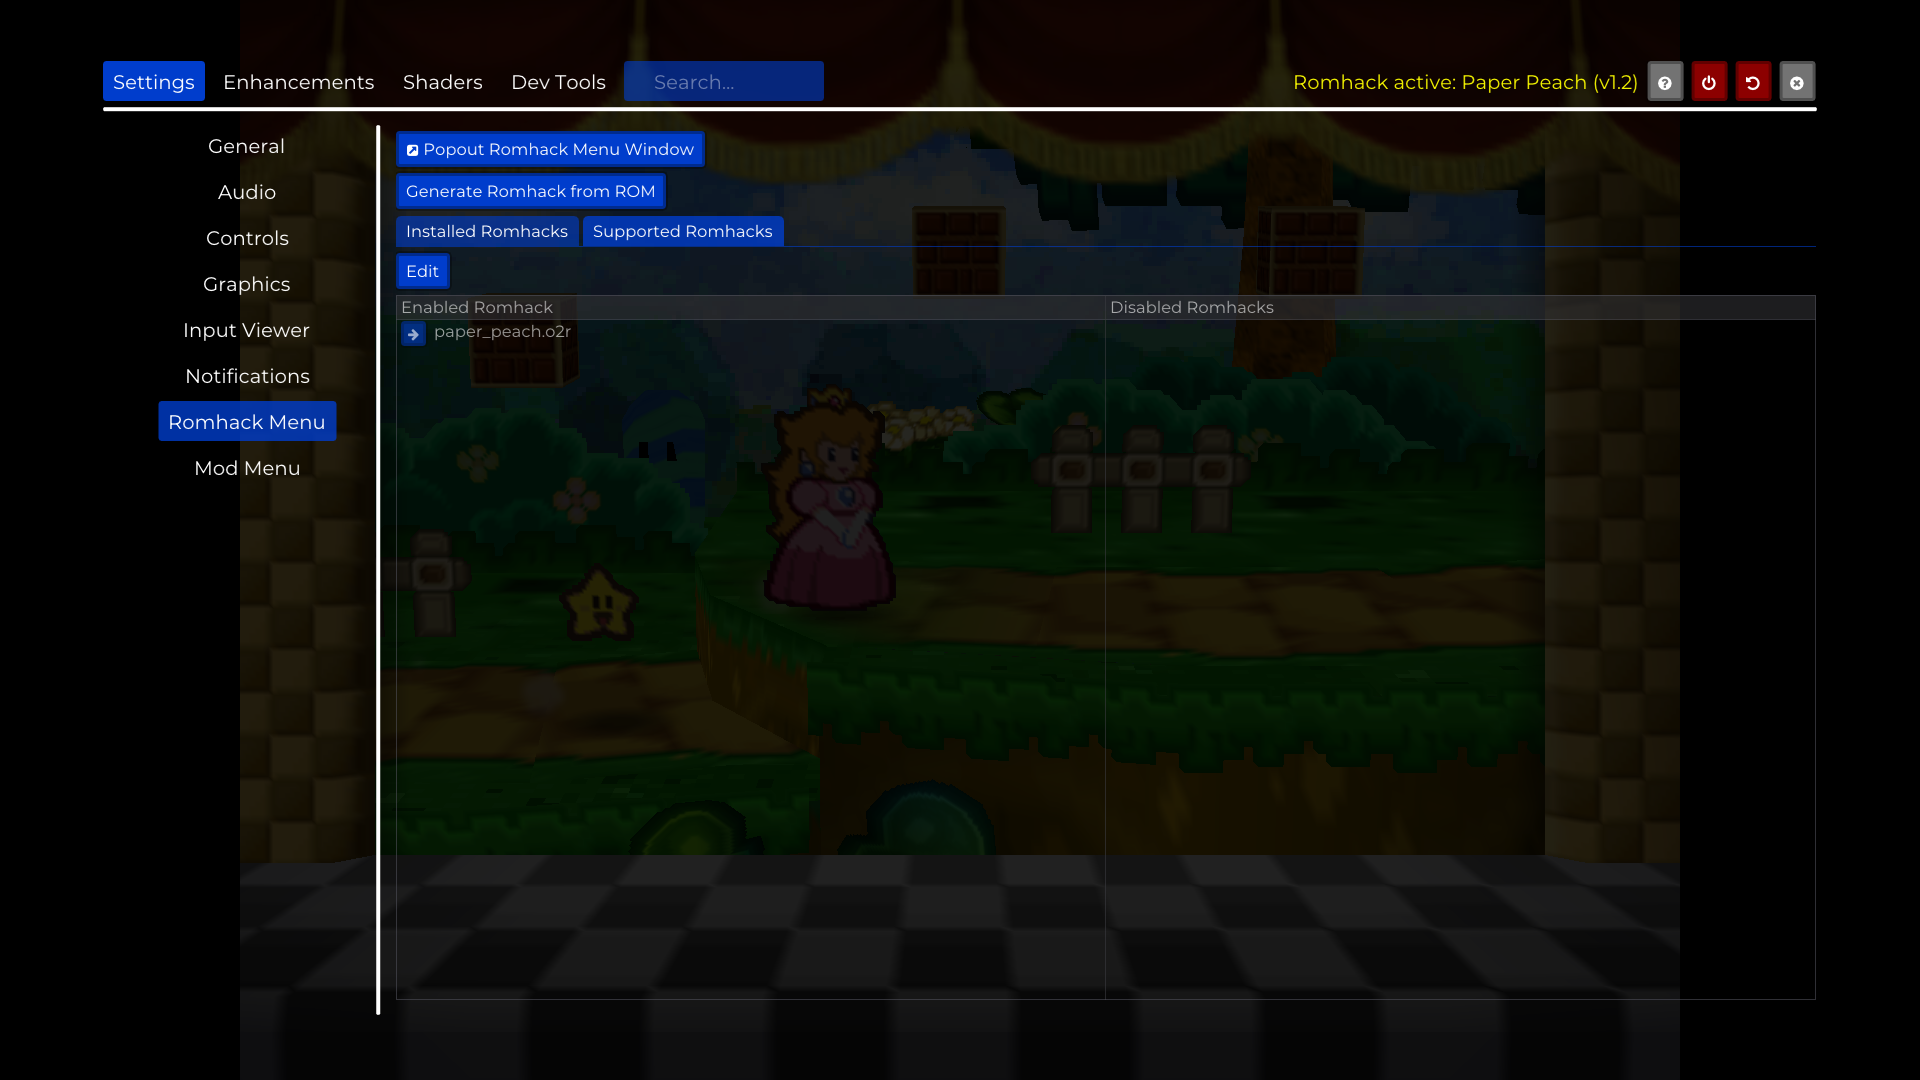
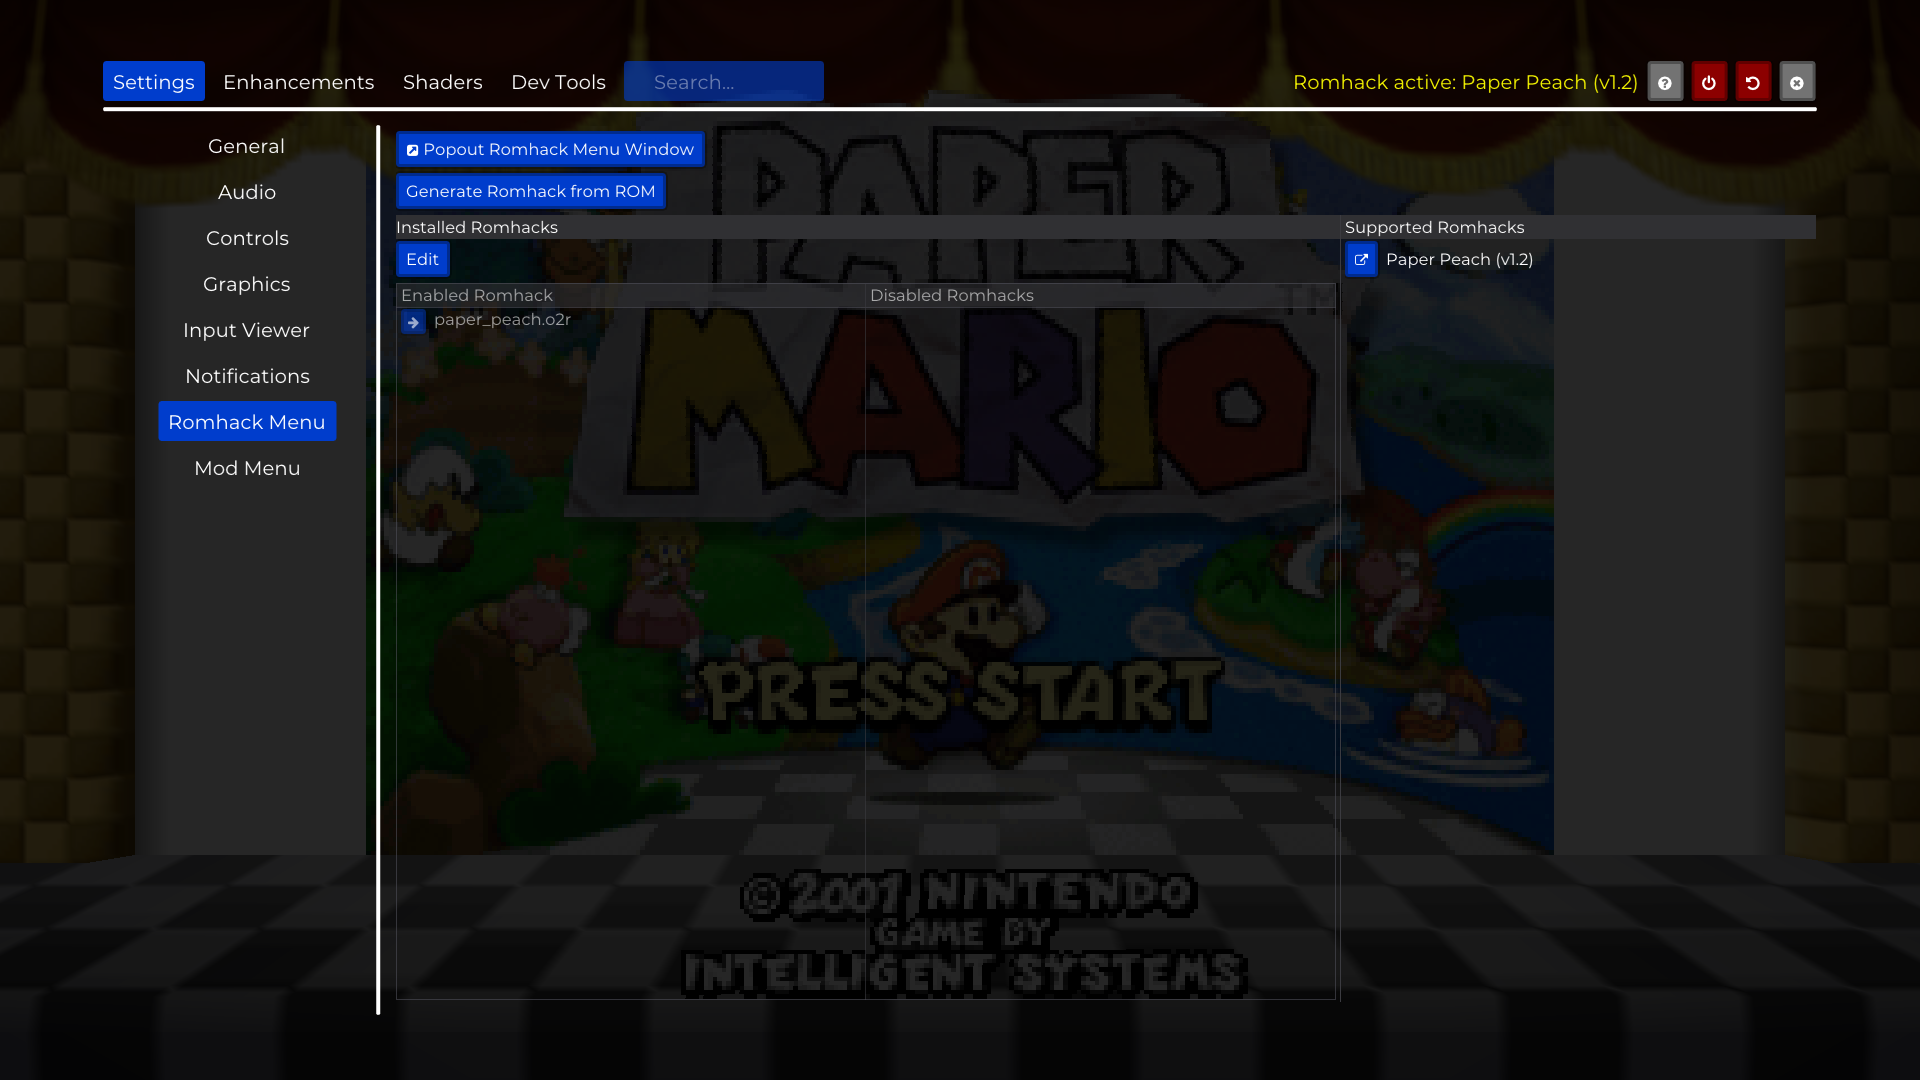
update screenshots and UI menu layout

diff --git a/src/port/ui/PaperboatModMenuWindow.cpp b/src/port/ui/PaperboatModMenuWindow.cpp
@@ -622,19 +622,25 @@ void PaperboatRomhackMenuWindow::DrawElement() {
         ImGui::ProgressBar(progress, ImVec2(-1.0f, 0.0f), "Extracting romhack...");
     }
 
-    UIWidgets::PushStyleTabs(THEME_COLOR);
-    if (ImGui::BeginTabBar("RomhackTabs")) {
-        if (ImGui::BeginTabItem("Installed Romhacks")) {
-            DrawRomhackManager();
-            ImGui::EndTabItem();
-        }
-        if (ImGui::BeginTabItem("Supported Romhacks")) {
+    if (ImGui::BeginTable("tableRomhackMenu", 2, ImGuiTableFlags_BordersInnerV)) {
+        ImGui::TableSetupColumn("Installed Romhacks", ImGuiTableColumnFlags_WidthStretch, 2.0f);
+        ImGui::TableSetupColumn("Supported Romhacks", ImGuiTableColumnFlags_WidthStretch, 1.0f);
+        ImGui::PushItemFlag(ImGuiItemFlags_Disabled, true);
+        ImGui::TableHeadersRow();
+        ImGui::PopItemFlag();
+        ImGui::TableNextRow();
+
+        ImGui::TableNextColumn();
+        DrawRomhackManager();
+
+        ImGui::TableNextColumn();
+        if (ImGui::BeginChild("Supported Romhacks", ImVec2(0, -8))) {
             DrawSupportedRomhacks();
-            ImGui::EndTabItem();
         }
-        ImGui::EndTabBar();
+        ImGui::EndChild();
+
+        ImGui::EndTable();
     }
-    UIWidgets::PopStyleTabs();
 }
 
 void PaperboatRomhackMenuWindow::InitElement() {
